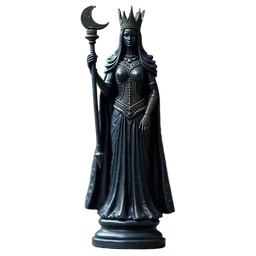
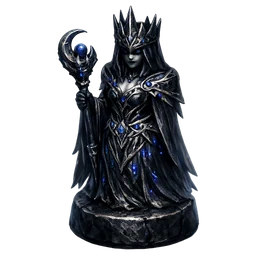
Use OpenAI gpt-image-1.5 for the reliquary piece set
- Twelve coherent ivory/obsidian miniatures with native transparent PNG output.
- Replace the FAL fallback with stronger silhouettes, matching bases and gold/silver filigree.
- Full-colour 96 px flat sprites and 256 px Table textures; subtle rim on obsidian pieces.
- Refresh the piece sheet, in-game screenshots and source notes.

Changed region(s): [[0.2188, 0.0, 0.7812, 1.0]]

diff --git a/src/style.css b/src/style.css
@@ -6,7 +6,7 @@
 main{max-width:1740px;margin:auto;padding:14px 20px 12px}.game-layout{display:grid;grid-template-columns:minmax(0,1.05fr) minmax(0,1fr);gap:24px;align-items:start}.arena,.workbench{min-width:0}.opponent-rack{display:flex;align-items:center;justify-content:space-between;gap:12px;min-height:80px;padding:0 2px 10px}.player-line{display:flex;align-items:center;gap:12px;min-width:0}.avatar{width:54px;height:58px;border:1px solid #bc995e;outline:1px solid #bc995e44;outline-offset:3px;object-fit:cover;background:#201b14;flex-shrink:0}.human-avatar{display:grid;place-items:center;font:38px Georgia,serif;color:#e1cda1;background:radial-gradient(#594222,#1c1510)}.player-line strong{font:600 22px/1.05 var(--serif);white-space:nowrap}.player-line>div>span{display:block;font-size:8px;letter-spacing:1px;color:#ad9673;margin-top:6px}.player-line>div>.side-chip{font-size:8px;color:#d3b77d}.captures{font-size:18px;letter-spacing:-3px;color:#c8aa76;max-width:80px;overflow:hidden}.opponent .captures{display:none}#cpu-hand-panel{min-width:0;width:53%;position:relative;z-index:5}.rack-label{display:flex;justify-content:space-between;gap:8px;color:#c2a575;font-size:7px;letter-spacing:1.2px;margin:0 0 5px}.rack-label span{letter-spacing:0;color:#aa9a83}#cpu-hand{display:grid;grid-template-columns:repeat(3,minmax(0,1fr));gap:7px}.cpu-card{min-width:0;position:relative;background:#101110;border:1px solid var(--tier-color);border-radius:3px;box-shadow:0 3px 8px #0006}.cpu-card summary{cursor:pointer;list-style:none;min-width:0;display:flex;align-items:center;gap:5px;padding:4px}.cpu-card summary::-webkit-details-marker{display:none}.cpu-art{height:41px;width:34px;object-fit:cover;border:1px solid #aa8c4944}.cpu-card-title{min-width:0}.cpu-card strong{font:600 12px/1.05 var(--serif);display:block}.cpu-rating{font-size:6px;color:var(--tier-color);display:block;margin-top:4px}.cpu-card p{position:absolute;top:calc(100% + 5px);right:0;width:220px;margin:0;padding:14px;background:#171813;border:1px solid var(--tier-color);font-size:11px;line-height:1.7;box-shadow:0 10px 25px #000a;z-index:8}.cpu-card:first-child p{right:auto;left:0}.cpu-card[open]{box-shadow:0 0 0 1px #f1ddb0}
 .board-shell{position:relative;height:clamp(380px,calc(100dvh - 240px),760px);border:1px solid #c6a36a;background:radial-gradient(#3c3427aa,#151410ee);box-shadow:inset 0 0 0 5px #18140e,inset 0 0 0 6px #8d6b3c,0 0 0 4px #342315,0 0 0 5px #94703f,0 14px 30px #0008;margin:6px 6px 12px;isolation:isolate}.board-corner{position:absolute;width:24px;height:24px;border-top:2px solid #d3ad6d;border-left:2px solid #d3ad6d;z-index:2;pointer-events:none}.board-corner::after{content:'✥';position:absolute;top:-9px;left:-8px;font-style:normal;font-size:19px;color:#d6b377;text-shadow:1px 1px #32200c}.top-left{top:0;left:0}.top-right{top:0;right:0;transform:rotate(90deg)}.bottom-right{bottom:0;right:0;transform:rotate(180deg)}.bottom-left{bottom:0;left:0;transform:rotate(270deg)}#board-view{height:100%;width:100%;touch-action:manipulation}#board-view canvas{display:block;width:100%;height:100%}.thinking-overlay{position:absolute;top:13px;left:50%;transform:translateX(-50%);display:flex;align-items:center;gap:9px;padding:10px 16px;white-space:nowrap;background:#10130ff2;border:1px solid #c0a16d;color:#dfd7bb;box-shadow:0 5px 15px #0007;font-size:11px}.arena-footer{display:flex;align-items:center;justify-content:space-between;gap:12px;min-height:60px;padding:4px 3px}.arena-footer .avatar{width:39px;height:42px;font-size:29px}.arena-footer .player-line{flex:1;gap:10px}.arena-footer .player-line strong{font-size:21px}.turn-chip{margin-left:auto;white-space:nowrap;border:1px solid #bd9656;background:linear-gradient(#40301b,#211b12);box-shadow:inset 0 0 0 2px #0006;padding:8px 10px;color:#f2d591;font:600 12px var(--serif);letter-spacing:.4px}.board-toolbar{display:flex;gap:6px;align-items:center}.tool-button{border:1px solid #9c7c4955;background:#100f0ee0;display:flex;align-items:center;justify-content:center;gap:5px;padding:8px 10px;color:#d3bb90;font-size:18px}.tool-button span{font:600 14px var(--serif)}.tool-button:hover:not(:disabled){background:#382719}.view-switch{display:flex;border:1px solid #9c7c4955;padding:3px;background:#100f0ee0}.view-switch button{padding:6px 8px;background:transparent;color:#ad9874;font:13px var(--serif)}.view-switch button[aria-pressed=true]{color:#ffdf9e;background:#543a20}.board-caption{display:flex;justify-content:space-between;font-size:8px;letter-spacing:.6px;color:#b09b7a;padding:8px 3px 0}
 .workbench{display:flex;flex-direction:column;gap:10px}.status-card{display:flex;align-items:center;justify-content:space-between;gap:14px;min-height:70px;padding:5px 2px 8px;border-bottom:1px solid #b48f5344}.eyebrow{font-size:8px;font-weight:600;letter-spacing:1.6px;color:#c6a774;display:flex;align-items:center;gap:7px}.live-dot{display:inline-block;width:6px;height:6px;border-radius:50%;background:#9adbb2;box-shadow:0 0 9px #8ae4a877}.status-card h2{font:600 23px/1.1 var(--serif);margin:5px 0;color:#f0dfbf}.status-card p{font-size:10px;line-height:1.5;color:#bcae96;margin:0;max-width:380px}.difficulty-row{display:flex;flex-direction:column;gap:5px;flex-shrink:0}.difficulty-row label{font-size:8px;color:#b9a281;letter-spacing:.6px}select{background:#151613;border:1px solid #aa874c66;border-radius:2px;padding:7px;color:#e0cdab;font-size:11px}.hand-panel{border:1px solid #b893555c;background:linear-gradient(135deg,#131510eb,#0c100eed);padding:12px 13px;border-radius:3px;position:relative;box-shadow:inset 0 0 0 3px #57402722,0 8px 24px #0004}.hand-panel::before,.hand-panel::after{content:'✥';position:absolute;top:-9px;font-size:20px;color:#c5a46a;text-shadow:1px 1px #000}.hand-panel::before{left:-7px}.hand-panel::after{right:-7px}.hand-heading{display:flex;align-items:center;justify-content:space-between;gap:10px;margin:0 3px 12px}.hand-heading h2{font:600 27px/1 var(--serif);margin:0;color:#f1dcaf}.hand-heading>span{font-size:8px;color:#a99a7e;text-align:right;line-height:1.6;max-width:100px}.hand{display:grid;grid-template-columns:repeat(3,minmax(0,1fr));gap:11px;padding:3px 2px 4px;align-items:stretch}.spell-card{position:relative;display:flex;flex-direction:column;min-width:0;padding:6px;border:2px solid var(--tier-color,#bd9f68);border-radius:8px;background:linear-gradient(140deg,var(--card-tint,#203128),#090f0c 60%);color:#f1ead8;text-align:left;box-shadow:inset 0 0 0 2px #05060699,0 5px 12px #0007}.spell-card::before{content:'';position:absolute;inset:3px;border:1px solid var(--tier-color);border-radius:5px;opacity:.3;pointer-events:none}.spell-card:hover:not(:disabled){box-shadow:0 0 0 1px var(--tier-color),0 0 15px var(--tier-shadow)}.spell-card.chosen{outline:2px solid #bbf5c8;outline-offset:3px;box-shadow:0 0 21px #9dfcc24d}.spell-card.chosen::after{content:'SELECTED';position:absolute;left:50%;top:-11px;transform:translateX(-50%);padding:3px 8px;background:#c5edc9;color:#14351b;border-radius:2px;font-size:7px;font-weight:700;letter-spacing:.7px;z-index:2}.card-top{display:flex;justify-content:space-between;align-items:center;gap:4px;padding:1px 2px 6px;min-height:25px;font-size:7px;color:#cab88e}.card-art{display:block;width:100%;height:clamp(95px,13vh,155px);object-fit:cover;border:1px solid var(--tier-color);border-radius:3px}.card-sigil{display:none}.spell-card strong{font:700 clamp(17px,1.5vw,23px)/1 var(--serif);min-height:37px;display:flex;align-items:center;justify-content:center;text-align:center;margin:4px 0 0;padding:5px 0;color:#f8efdc;border-bottom:1px solid #f0d4a329;background:#090d0a66}.card-text{display:block;flex:1;color:#d8d4c4;font-size:10px;line-height:1.5;text-align:center;padding:8px 4px 6px;background:linear-gradient(#11191399,#0b0f0e66);min-height:72px}.card-rating{display:flex;align-items:center;justify-content:space-between;gap:4px;padding:6px 2px 1px;margin:0;border-top:1px solid #dfc89826}.card-mechanic{font-size:7px;color:#a89d85}.card-bottom{display:none}.hand-key{display:flex;justify-content:space-between;align-items:center;gap:12px;font-size:8px;line-height:1.5;color:#ab9c82;margin:9px 3px 10px}.hand-key button{background:none;color:#dbc193;border-bottom:1px solid #9a793f;font-size:9px;padding:2px 0;white-space:nowrap}.spell-workspace{padding:11px 12px;border:1px solid #b490555f;background:linear-gradient(115deg,#20251b88,#0b1010c9);box-shadow:inset 0 0 0 3px #63503219;border-radius:2px}.spell-preview{display:flex;gap:11px;min-height:78px;align-items:center}.preview-portrait{width:62px;height:72px;flex-shrink:0;display:grid;place-items:center;border:1px solid #b4985d77;background:#191e15;color:#bfa66b}.preview-portrait img{display:block;width:100%;height:100%;object-fit:cover}.preview-portrait>span{font-size:35px}.preview-copy{min-width:0;flex:1}.preview-copy h3{font:600 22px/1.05 var(--serif);margin:0 0 6px;color:#e9d7b2}.preview-copy #selected-card-meta{display:flex;gap:9px;align-items:center;flex-wrap:wrap}.preview-copy #card-instruction{font-size:11px;line-height:1.5;color:#c5c7b6;margin:6px 0 0}.hand-controls{display:grid;grid-template-columns:1fr 1fr;gap:10px;margin-top:11px}.hand-controls button{border:1px solid #a9956c;padding:10px 5px;box-shadow:inset 0 0 0 3px #08090866;border-radius:3px;color:#f0e0bd;font:600 16px/1.1 var(--serif);background:linear-gradient(#243523,#142116);min-height:40px}.hand-controls #normal-mode{background:linear-gradient(#4c2720,#281411);font-size:13px}.hand-controls button[aria-pressed=true]{border-color:#a9dda4;box-shadow:inset 0 0 0 2px #070e0677,0 0 9px #75d09c22}.hand-controls #normal-mode[aria-pressed=true]{border-color:#eeae86}.hand-controls button:hover:not(:disabled){filter:brightness(1.18)}.sidebar{display:grid;grid-template-columns:1fr 1fr;gap:10px}.sidebar section{border:1px solid #b18e5255;padding:10px 12px;background:#101411eb;border-radius:2px;min-width:0}.section-heading{display:flex;justify-content:space-between;align-items:center;gap:6px;border-bottom:1px solid #b18e522e;padding-bottom:7px}.section-heading h3{font:600 19px/1 var(--serif);margin:0;color:#e4cca1;white-space:nowrap}.section-heading>span{font-size:7px;color:#a28c66;letter-spacing:.5px}.effects-panel p{font-size:11px;line-height:1.6;margin:10px 0;color:#d1c7ac}.effects-panel .rules-reminder{font-size:9px;color:#8e9583;margin:0}.journal{max-height:94px;overflow:auto;scrollbar-width:thin;scrollbar-color:#857046 #12160f}.turn-entry{font-size:10px;line-height:1.7;border-bottom:1px solid #b9975022;padding:6px 0;color:#c8c4b0}.empty-journal{font:italic 14px/1.5 var(--serif);color:#a5a18b;margin:16px 0;text-align:center}.table-note{font-size:8px;color:#aa9578;text-align:center;letter-spacing:.5px;padding:0 0 2px}
-.flat-board{display:grid;grid-template-columns:repeat(8,minmax(0,1fr));grid-template-rows:repeat(8,minmax(0,1fr));position:absolute;width:min(91%,calc(100% - 24px));aspect-ratio:1;max-height:91%;top:50%;left:50%;transform:translate(-50%,-50%);border:5px solid #3c3022;outline:1px solid #b18b51;box-shadow:0 8px 18px #0008}.flat-square{min-width:0;min-height:0;padding:0;display:grid;place-items:center;position:relative;background:#d2c09e;color:#fff2d7;text-shadow:0 1px 2px #000,1px 0 #000,-1px 0 #000;font:clamp(22px,3.1vw,47px) Georgia,serif}.flat-square.dark{background:#706653}.flat-square.black-piece{color:#25231e;text-shadow:0 1px #decdac}.flat-square.last{background:#a8a477}.flat-square.selected{box-shadow:inset 0 0 0 4px #ffe3a1}.flat-square.legal::after{content:'';position:absolute;width:23%;height:23%;border-radius:50%;background:#244a3788;border:2px solid #b9ebba;pointer-events:none}.flat-square.power-move::after{background:#ad7dde55;border-color:#dfbdff}.flat-square.shielded{box-shadow:inset 0 0 0 4px #82d3ff}.flat-square.frozen{box-shadow:inset 0 0 0 4px #c4b7f4}.flat-piece{display:grid;place-items:center;width:100%;height:100%;pointer-events:none}.flat-piece-img{width:88%;height:88%;object-fit:contain;image-rendering:pixelated;pointer-events:none;filter:drop-shadow(0 2px 1px #0007)}.square-label{position:absolute;left:3px;bottom:2px;font:7px 'DM Sans',sans-serif;color:#3a3426;text-shadow:none;pointer-events:none}#board-view[data-animating],#flat-board[data-animating]{cursor:wait}.save-notice{font-size:11px;line-height:1.6;padding:12px;border:1px solid #b29464;background:#32251a}.wide{width:100%}
+.flat-board{display:grid;grid-template-columns:repeat(8,minmax(0,1fr));grid-template-rows:repeat(8,minmax(0,1fr));position:absolute;width:min(91%,calc(100% - 24px));aspect-ratio:1;max-height:91%;top:50%;left:50%;transform:translate(-50%,-50%);border:5px solid #3c3022;outline:1px solid #b18b51;box-shadow:0 8px 18px #0008}.flat-square{min-width:0;min-height:0;padding:0;display:grid;place-items:center;position:relative;background:#d2c09e;color:#fff2d7;text-shadow:0 1px 2px #000,1px 0 #000,-1px 0 #000;font:clamp(22px,3.1vw,47px) Georgia,serif}.flat-square.dark{background:#706653}.flat-square.black-piece{color:#25231e;text-shadow:0 1px #decdac}.flat-square.last{background:#a8a477}.flat-square.selected{box-shadow:inset 0 0 0 4px #ffe3a1}.flat-square.legal::after{content:'';position:absolute;width:23%;height:23%;border-radius:50%;background:#244a3788;border:2px solid #b9ebba;pointer-events:none}.flat-square.power-move::after{background:#ad7dde55;border-color:#dfbdff}.flat-square.shielded{box-shadow:inset 0 0 0 4px #82d3ff}.flat-square.frozen{box-shadow:inset 0 0 0 4px #c4b7f4}.flat-piece{display:grid;place-items:center;width:100%;height:100%;pointer-events:none}.flat-piece-img{width:90%;height:90%;object-fit:contain;image-rendering:auto;pointer-events:none;filter:drop-shadow(0 2px 1px #0008)}.square-label{position:absolute;left:3px;bottom:2px;font:7px 'DM Sans',sans-serif;color:#3a3426;text-shadow:none;pointer-events:none}#board-view[data-animating],#flat-board[data-animating]{cursor:wait}.save-notice{font-size:11px;line-height:1.6;padding:12px;border:1px solid #b29464;background:#32251a}.wide{width:100%}
 [data-card=saddle]{--card-accent:#9fbb68;--card-tint:#354c2a}[data-card=comet]{--card-accent:#d39ae8;--card-tint:#512b60}[data-card=rift]{--card-accent:#a77ce3;--card-tint:#352749}[data-card=vault]{--card-accent:#c1a566;--card-tint:#4c4b32}[data-card=prism]{--card-accent:#b8d4df;--card-tint:#465269}[data-card=tower]{--card-accent:#e5c67a;--card-tint:#69604a}[data-card=crown]{--card-accent:#dfac64;--card-tint:#702f36}[data-card=blink]{--card-accent:#c297e4;--card-tint:#513057}[data-card=retreat]{--card-accent:#9fb79e;--card-tint:#3c5548}[data-card=flank]{--card-accent:#69c5ba;--card-tint:#6e4938}[data-card=charge]{--card-accent:#e1a15d;--card-tint:#71362c}[data-card=lunge]{--card-accent:#c77578;--card-tint:#4b3340}[data-card=step]{--card-accent:#d4a0bf;--card-tint:#593854}[data-card=relay]{--card-accent:#bfa272;--card-tint:#4e4834}[data-card=recall]{--card-accent:#d5a263;--card-tint:#714c2e}[data-card=ward]{--card-accent:#7ba8d9;--card-tint:#2b4d74}[data-card=frost]{--card-accent:#b0d6e7;--card-tint:#42687e}[data-card=pierce]{--card-accent:#a2b68a;--card-tint:#334839}dialog{max-width:550px;width:calc(100% - 32px);max-height:88vh;overflow:auto;border:1px solid #bd985b;padding:32px;border-radius:6px;background:linear-gradient(135deg,#342630,#191722);color:#eee0c6;box-shadow:inset 0 0 0 5px #211924,0 30px 100px #000a;scrollbar-width:thin;scrollbar-color:#8e6a42 #201923}dialog::backdrop{background:#080610cf;backdrop-filter:blur(8px)}dialog h2{font-size:39px}dialog p{font-size:12px;line-height:1.8;color:#cabcaa}dialog h3{font:600 23px var(--serif);margin:24px 0 9px}.close-dialog{position:absolute;right:12px;top:9px;background:none;color:#c4ad87;font-size:27px;z-index:2}.mode-option{display:flex;align-items:center;gap:14px;border:1px solid #b8945d66;padding:18px;margin:12px 0;cursor:pointer;border-radius:3px}.mode-option:has(:checked){background:#94704333;border-color:#d4b273}.mode-option input{accent-color:#d8b772}.mode-option strong{font:600 20px var(--serif)}.mode-option small{display:block;font-size:11px;line-height:1.6;color:#c1af98;margin-top:5px}.form-label{display:block;margin:24px 0 10px;font-size:12px}#side{width:100%}.dialog-note{font-size:10px!important}.wide{width:100%}.guide-steps{padding-left:22px}.guide-steps li{font-size:12px;line-height:1.8;margin:13px 0;color:#c9b9a0}.guide-steps strong{color:#f1dbb1}.save-notice{padding:14px;border:1px solid #b99b69;background:#352439;color:#ead2b5;font-size:12px;line-height:1.6}.library-dialog{max-width:1100px}.card-library{display:grid;grid-template-columns:repeat(3,minmax(0,1fr));gap:22px;margin-top:24px}.library-card{position:relative;min-width:0;border:1px solid var(--card-accent,#b8955a);background:linear-gradient(135deg,var(--card-tint,#493426),#18161e);border-radius:9px;padding:9px;box-shadow:inset 0 0 0 3px #12101a88,0 7px 15px #0004}.library-art{display:block;width:100%;height:auto;aspect-ratio:1.5;object-fit:cover;border:1px solid var(--card-accent);border-radius:4px}.library-card>span{position:absolute;top:17px;right:17px;width:28px;height:28px;display:grid;place-items:center;background:#171323dc;border:1px solid var(--card-accent);border-radius:50%;color:#f9e3b9;font-size:19px}.library-card small{display:block;margin:12px 7px 0;font-size:8px;letter-spacing:1px;color:#d6c6a9}.library-card h3{font:700 26px/1.05 var(--serif);margin:6px 7px 12px;color:#fff0d0}.library-card p{margin:0;padding:13px;background:linear-gradient(130deg,#e9dcc0,#cbbb9c);border-radius:2px;color:#362f30;font-size:12px;line-height:1.65;min-height:104px}#promotion-options{display:flex;gap:10px}#promotion-options button{background:#493444;border:1px solid #b99863;padding:15px;flex:1;font-size:11px}#promotion-options span{display:block;font-size:30px}/* Purpose and power use separate, labeled visual channels. */
 [data-tier="1"]{--tier-color:#c6cbd3;--tier-shadow:#b5bdcc24}[data-tier="2"]{--tier-color:#75b9ff;--tier-shadow:#3d9dff44}[data-tier="3"]{--tier-color:#f5cb60;--tier-shadow:#ffc84555}
 .spell-card,.library-card,.cpu-card{border-color:var(--tier-color,var(--card-accent));border-width:2px}.spell-card,.library-card{box-shadow:inset 0 0 0 2px #0a0912aa,0 5px 17px #0007,0 0 12px var(--tier-shadow)}.spell-card[data-tier="3"],.library-card[data-tier="3"]{background:linear-gradient(120deg,#89622955,transparent 40%,#eed68518 65%,transparent),linear-gradient(135deg,var(--card-tint),#18161e)}.spell-card.chosen{outline:3px solid #fff4d4;outline-offset:3px;border-color:var(--tier-color);box-shadow:0 0 24px #fff0c333}.spell-card.chosen::after{z-index:2}.card-top{align-items:center;padding:2px 2px 7px;min-height:30px;letter-spacing:.6px}.family-badge{display:inline-flex;align-items:center;gap:4px;white-space:nowrap;border:1px solid currentColor;padding:4px 7px;border-radius:3px;font:700 9px/1.2 'DM Sans',sans-serif;letter-spacing:.4px;text-transform:uppercase}.family-badge[data-family="offense"]{color:#ffc1ae;background:#682c2ee6}.family-badge[data-family="defense"]{color:#bddfff;background:#26496ee6}.family-badge[data-family="mobility"]{color:#d2edb0;background:#355135e6}.family-badge[data-family="tactics"]{color:#e5c6ff;background:#533c70e6}.family-badge>span{font-size:12px}.card-rating{display:flex;align-items:center;justify-content:space-between;gap:8px;margin:10px 5px 2px}.tier-badge{display:inline-flex;align-items:center;gap:6px;font:600 10px/1.4 'DM Sans',sans-serif;color:var(--tier-color);white-space:nowrap}.tier-badge>span{letter-spacing:1px;font-size:12px}.card-mechanic{font-size:9px;color:#d6c2a2}.card-sigil{top:46px}.library-family{display:flex;justify-content:space-between;align-items:center;gap:8px;margin:2px 2px 9px}.library-family small{margin:0}.library-card>span{top:52px}.library-rating{padding:0 7px 12px}.library-card h3{margin-top:13px;margin-bottom:8px}.hand-key{display:flex;justify-content:space-between;align-items:center;gap:12px;color:#c9bca4;font-size:10px;margin:0 2px 14px}.hand-key button{background:none;border-bottom:1px solid #b99562;padding:3px 0;color:#e9d3a6;font-size:11px;white-space:nowrap}.cpu-card-title{min-width:0}.cpu-card-title strong{display:block}.cpu-rating{display:block;font-size:8px;line-height:1.5;color:var(--tier-color);margin-top:5px}.cpu-card p .family-badge{margin:0 0 7px}.cpu-card p .tier-badge{display:flex;margin-bottom:8px}.card-legend{border:1px solid #c9a56b50;background:#18151e77;border-radius:4px;padding:14px 17px;margin:20px 0}.card-legend summary{cursor:pointer;color:#eddbba;font-size:13px;font-weight:600}.family-key{display:grid;grid-template-columns:repeat(4,minmax(0,1fr));gap:15px;margin-top:17px}.family-key>div>span:last-child{display:block;font-size:11px;line-height:1.6;color:#c4b7a5;margin-top:7px}.tier-key{display:flex;align-items:center;gap:22px;flex-wrap:wrap;border-top:1px solid #c9a56b30;padding-top:14px;margin-top:16px}.tier-key b{font-size:11px;font-weight:500;color:#d4c2a3}.card-legend p{font-size:11px;line-height:1.7;margin-bottom:0}.library-filters{display:flex;align-items:end;gap:14px;flex-wrap:wrap}.library-filters label{display:flex;flex-direction:column;gap:7px;font-size:10px;letter-spacing:.5px;color:#d4c2a3}.library-filters select{min-width:150px}.library-filters button{padding:9px 14px;background:#4c3845;border:1px solid #b9956266;color:#ead7b7;border-radius:3px;font-size:12px}.library-filters>span{margin-left:auto;font-size:11px;color:#c9b699;padding-bottom:10px}#library-empty{padding:25px;border:1px dashed #b9956266;text-align:center}
@@ -440,3 +440,5 @@ body[data-trial="true"] #cpu-hand-panel{display:none}
 .review-move span{color:#c8b48e}
 .review-move.active span{color:#f0d9ac}
 #trials-close,#review-close,#record-close{background:#2d2316;color:#fff1cf;border:1px solid #b08a51}
+
+.flat-square.black-piece .flat-piece-img{filter:drop-shadow(0 2px 2px #000b) drop-shadow(0 0 1px #bcd6e6cc)}

diff --git a/art-direction/piece-set-notes.md b/art-direction/piece-set-notes.md
@@ -4,16 +4,16 @@ The game pieces are now a single hand-painted ivory/obsidian miniature set rathe
 32 px procedural sprites. Each piece was rendered as an isolated collectible miniature on a
 neutral studio background, cut out, normalized to a shared baseline, and exported at two sizes:
 
-- **96 px painted-pixel WebP** for the flat **Pixel** board and small UI thumbnails.
+- **96 px compact WebP** for the flat **Pixel** board and small UI thumbnails.
 - **256 px alpha WebP** for the 3D **Table** textures.
 
 ## Source and fallback
 
-The current set was generated with **FAL FLUX dev** and **FAL BirefNet v2** cutout because the
-provided OpenAI image key returned `credit_balance_exhausted`. The prompts and size/normalization
-pipeline are provider-independent and can be re-run with `gpt-image-2` when OpenAI image credits
-are available. The original procedural pixel atlas remains in `src/pixel-pieces.js` as a fallback
-if an art asset fails to load.
+The current set was generated with **OpenAI `gpt-image-1.5`**, high quality, native transparent
+PNG output. It replaces an earlier FAL FLUX dev + BirefNet set that was used while the OpenAI
+key had no image credits; that earlier set remains in Git history. The OpenAI model supports
+transparent output directly, so no external cutout step is needed. Microsoft's procedural pixel
+atlas remains in `src/pixel-pieces.js` as a fallback if an art asset fails to load.
 
 Prompt shape:
 
